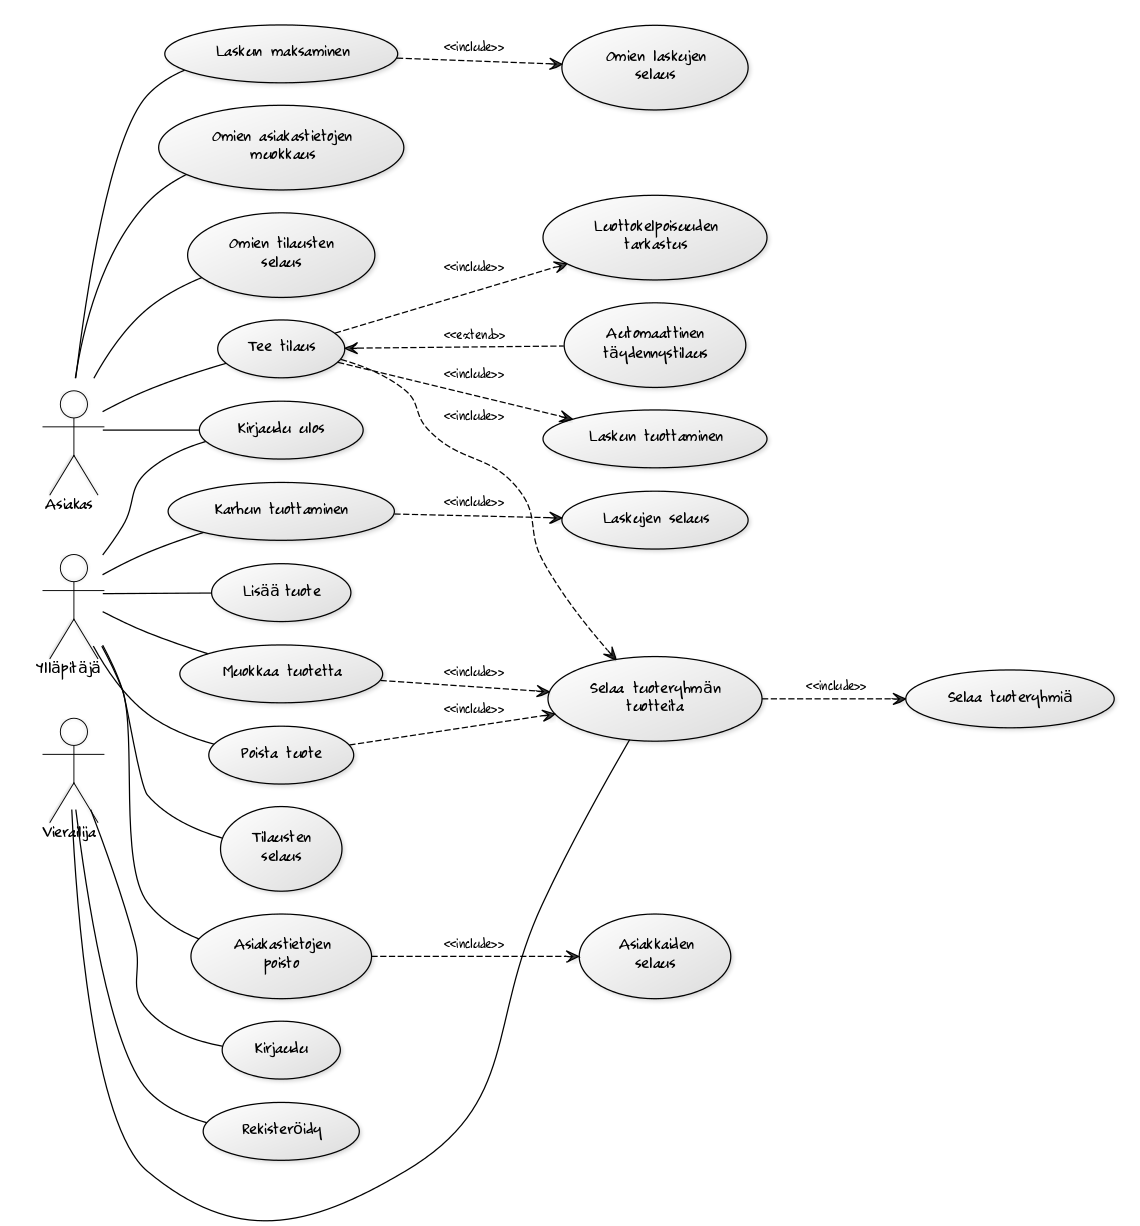
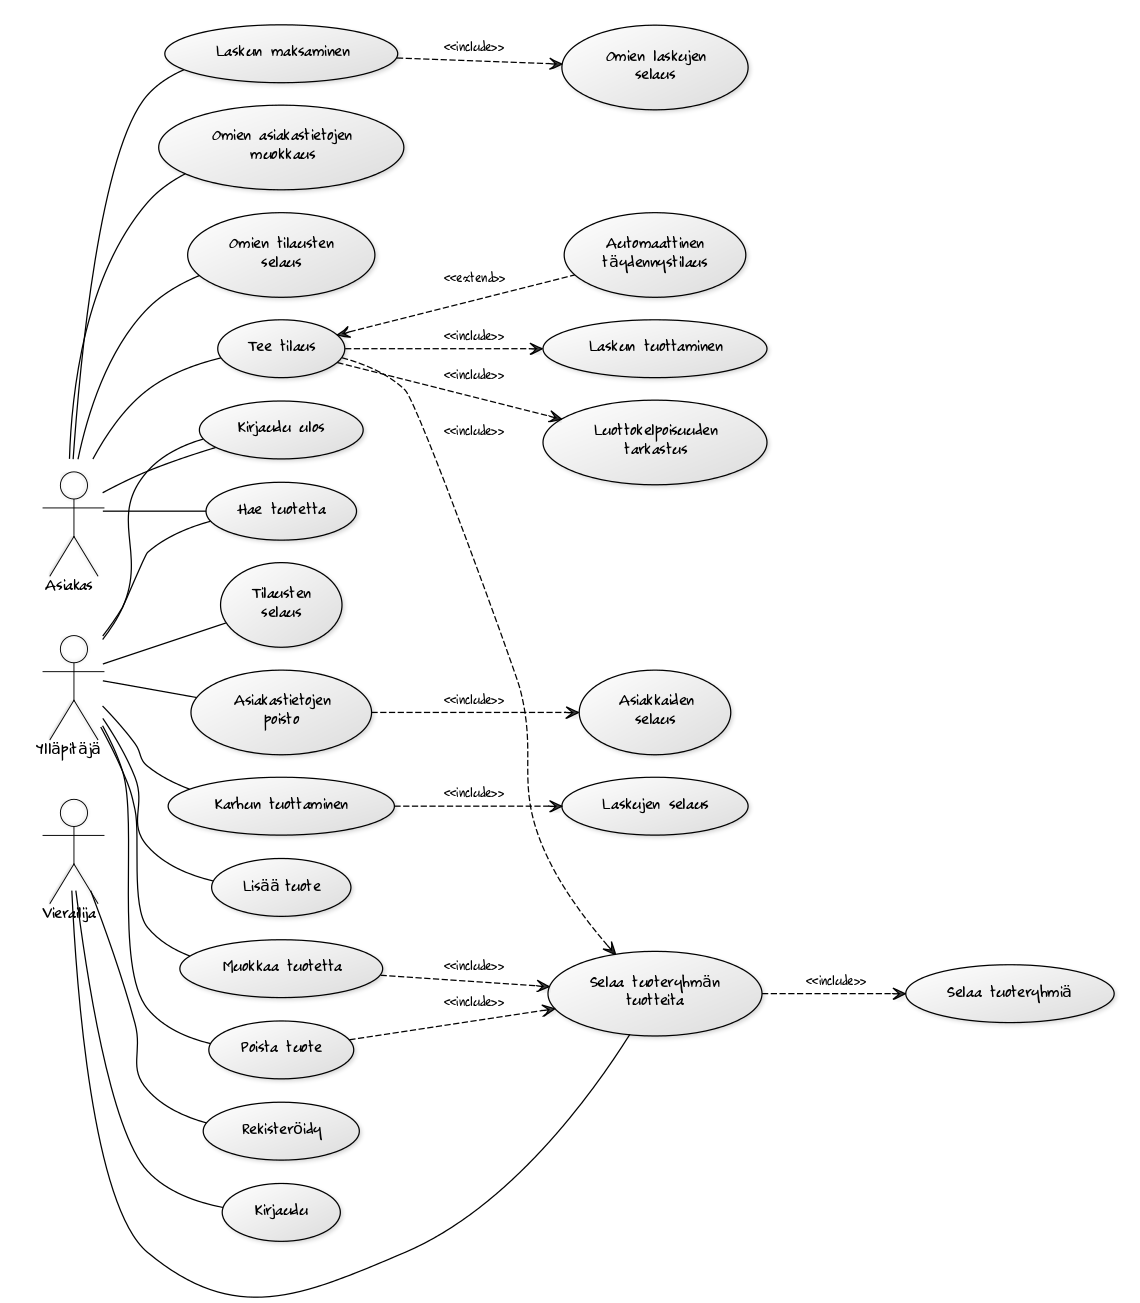
Lisätty malleja ja näkymiä tuotteille

diff --git a/application/templates/layout.html b/application/templates/layout.html
@@ -2,14 +2,51 @@
 <html>
 <head>
     <meta charset="utf-8">
+    <meta name="viewport" content="width=device-width, initial-scale=1, shrink-to-fit=no">
     <title>Tukkuliike</title>
+    <link rel="stylesheet" href="https://stackpath.bootstrapcdn.com/bootstrap/4.1.1/css/bootstrap.min.css"
+          integrity="sha384-WskhaSGFgHYWDcbwN70/dfYBj47jz9qbsMId/iRN3ewGhXQFZCSftd1LZCfmhktB" crossorigin="anonymous">
 </head>
 
-<body>
-{% block body %}
-    <p>
-        Sisältö.
-    </p>
-{% endblock %}
+<nav class="navbar navbar-expand-md navbar-dark bg-dark mb-4">
+    <a class="navbar-brand" href="/">Tukkuliike</a>
+    <button class="navbar-toggler" type="button" data-toggle="collapse" data-target="#navbarCollapse"
+            aria-controls="navbarCollapse" aria-expanded="false" aria-label="Toggle navigation">
+        <span class="navbar-toggler-icon"></span>
+    </button>
+    <div class="collapse navbar-collapse" id="navbarCollapse">
+        <ul class="navbar-nav mr-auto">
+            <li class="nav-item">
+                <a class="nav-link" href="{{ url_for('items_form') }}">Lisää tuote</a>
+            </li>
+            <li class="nav-item">
+                <a class="nav-link" href="{{ url_for('items_index') }}">Selaa tuotteita</a>
+            </li>
+        </ul>
+        <form class="form-inline mt-2 mt-md-0" method="POST" action="{{ url_for('items_find') }}">
+            <input class="form-control mr-sm-2" type="text" placeholder="Tuotteen nimi" aria-label="Search"
+                   name="query">
+            <button class="btn btn-outline-success my-2 my-sm-0" type="submit">Etsi</button>
+        </form>
+    </div>
+</nav>
+
+<main role="main" class="container">
+    {% block body %}
+        <p>
+            Sisältö.
+        </p>
+    {% endblock %}
+</main>
+
+<script src="https://code.jquery.com/jquery-3.3.1.slim.min.js"
+        integrity="sha384-q8i/X+965DzO0rT7abK41JStQIAqVgRVzpbzo5smXKp4YfRvH+8abtTE1Pi6jizo"
+        crossorigin="anonymous"></script>
+<script src="https://cdnjs.cloudflare.com/ajax/libs/popper.js/1.14.3/umd/popper.min.js"
+        integrity="sha384-ZMP7rVo3mIykV+2+9J3UJ46jBk0WLaUAdn689aCwoqbBJiSnjAK/l8WvCWPIPm49"
+        crossorigin="anonymous"></script>
+<script src="https://stackpath.bootstrapcdn.com/bootstrap/4.1.1/js/bootstrap.min.js"
+        integrity="sha384-smHYKdLADwkXOn1EmN1qk/HfnUcbVRZyYmZ4qpPea6sjB/pTJ0euyQp0Mk8ck+5T"
+        crossorigin="anonymous"></script>
 </body>
 </html>

diff --git a/application/templates/items/list.html b/application/templates/items/list.html
@@ -1,0 +1,34 @@
+{% extends "layout.html" %}
+
+{% block body %}
+
+    <table class="table">
+        <thead class="thead-dark">
+        <tr>
+            <th scope="col">Nimi</th>
+            <th scope="col">Hinta</th>
+            <th scope="col"></th>
+            <th scope="col"></th>
+        </tr>
+        </thead>
+        <tbody>
+        {% for item in items %}
+            <tr>
+                <td>{{ item.name }}</td>
+                <td>{{ item.price }}</td>
+                <td>
+                    <form action="{{ url_for('items_change_price_form', item_id=item.id) }}">
+                        <button type="submit" class="btn btn-primary btn-sm">Muuta hintaa</button>
+                    </form>
+                </td>
+                <td>
+                    <form action="{{ url_for('items_delete', item_id=item.id) }}">
+                        <button type="submit" class="btn btn-primary btn-sm">Poista</button>
+                    </form>
+                </td>
+            </tr>
+        {% endfor %}
+        </tbody>
+    </table>
+
+{% endblock %}

diff --git a/application/templates/items/change_price.html b/application/templates/items/change_price.html
@@ -1,0 +1,17 @@
+{% extends "layout.html" %}
+
+{% block body %}
+
+    <form method="POST" action="{{ url_for('items_change_price', item_id=item.id) }}">
+        <div class="form-group">
+            <label>Nimi</label>
+            <input type="text" readonly class="form-control" value="{{ item.name }}">
+        </div>
+        <div class="form-group">
+            <label>Uusi hinta (sentteinä)</label>
+            <input type="number" class="form-control" name="new_price">
+        </div>
+        <button type="submit" class="btn btn-primary">Muuta</button>
+    </form>
+
+{% endblock %}

diff --git a/application/templates/items/new.html b/application/templates/items/new.html
@@ -1,0 +1,17 @@
+{% extends "layout.html" %}
+
+{% block body %}
+
+    <form method="POST" action="{{ url_for('items_create') }}">
+        <div class="form-group">
+            <label>Nimi</label>
+            <input type="text" class="form-control" name="name">
+        </div>
+        <div class="form-group">
+            <label>Hinta (sentteinä)</label>
+            <input type="number" class="form-control" name="price">
+        </div>
+        <button type="submit" class="btn btn-primary">Lisää</button>
+    </form>
+
+{% endblock %}

diff --git a/application/templates/index.html b/application/templates/index.html
@@ -2,6 +2,6 @@
 
 {% block body %}
     <p>
-        Hello world!
+        Tervetuloa!
     </p>
 {% endblock %}

diff --git a/application/items/views.py b/application/items/views.py
@@ -1,0 +1,51 @@
+from flask import redirect, render_template, request, url_for
+
+from application import app, db
+from application.items.models import Item
+
+
+@app.route("/items/")
+def items_index():
+    return render_template("items/list.html", items=Item.query.all())
+
+
+@app.route("/items/new/")
+def items_form():
+    return render_template("items/new.html")
+
+
+@app.route("/items/new/", methods=["POST"])
+def items_create():
+    item = Item(request.form.get("name"), request.form.get("price"))
+    db.session.add(item)
+    db.session.commit()
+    return redirect(url_for("items_index"))
+
+
+@app.route("/items/change_price/<item_id>/")
+def items_change_price_form(item_id):
+    return render_template("items/change_price.html", item=Item.query.get(item_id))
+
+
+@app.route("/items/change_price/<item_id>/", methods=["POST"])
+def items_change_price(item_id):
+    item = Item.query.get(item_id)
+    new_price = request.form.get("new_price")
+    if new_price:
+        item.price = new_price
+    db.session().commit()
+    return redirect(url_for("items_index"))
+
+
+@app.route("/items/delete/<item_id>/")
+def items_delete(item_id):
+    item = Item.query.get(item_id)
+    db.session.delete(item)
+    db.session().commit()
+    return redirect(url_for("items_index"))
+
+
+@app.route("/items/find/", methods=["POST"])
+def items_find():
+    query = request.form.get("query")
+    return render_template("items/list.html", items=Item.query.filter_by(name=query).all())

diff --git a/application/__init__.py b/application/__init__.py
@@ -2,4 +2,14 @@ from flask import Flask
 
 app = Flask(__name__)
 
+from flask_sqlalchemy import SQLAlchemy
+
+app.config["SQLALCHEMY_DATABASE_URI"] = "sqlite:///items.db"
+app.config["SQLALCHEMY_ECHO"] = True
+db = SQLAlchemy(app)
+
 from application import views
+from application.items import models
+from application.items import views
+
+db.create_all()

diff --git a/application/items/models.py b/application/items/models.py
@@ -1,0 +1,11 @@
+from application import db
+
+
+class Item(db.Model):
+    id = db.Column(db.Integer, primary_key=True)
+    name = db.Column(db.String(144), nullable=False)
+    price = db.Column(db.Integer, nullable=False)
+
+    def __init__(self, name, price):
+        self.name = name
+        self.price = price
